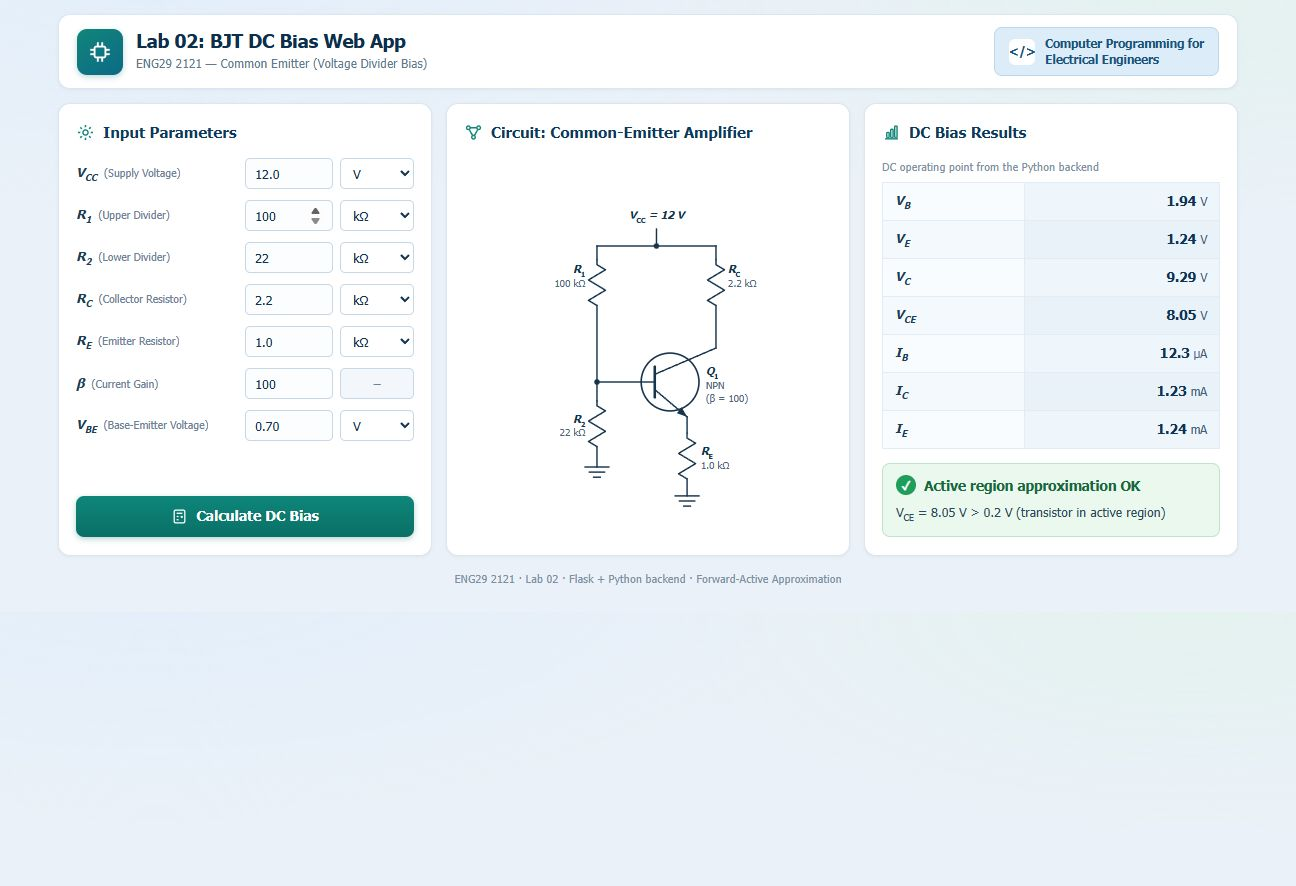
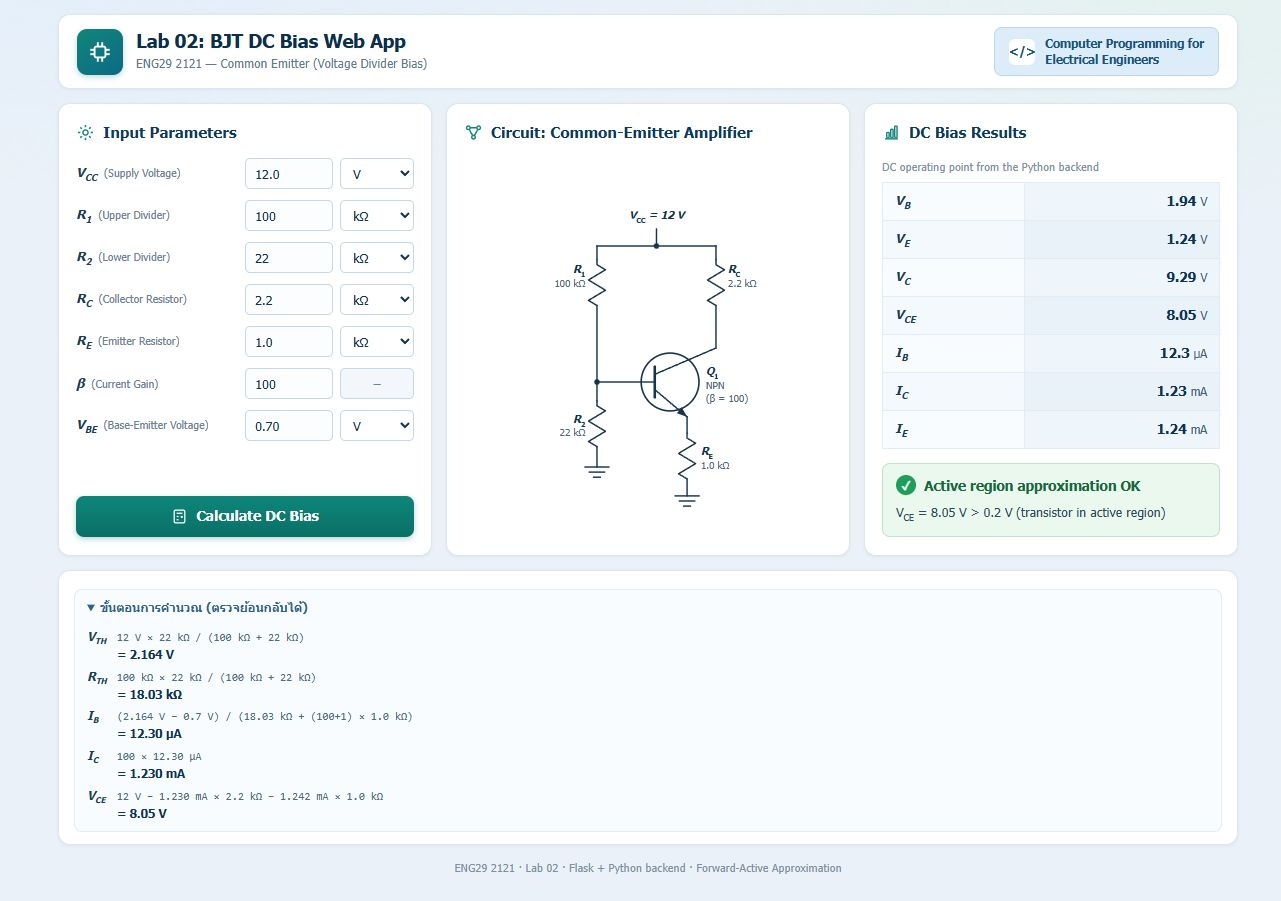
feat: show calculation steps and explain the lab-sheet sample numbers

diff --git a/static/style.css b/static/style.css
@@ -464,6 +464,75 @@ body {
   background: #c9453a;
 }
 
+/* ── calculation steps ──────────────────────────────────── */
+.page {
+  max-width: 1180px;
+  margin: 0 auto;
+}
+
+.steps-panel {
+  margin-top: 14px;
+  padding: 6px 15px 12px;
+}
+
+.steps {
+  margin-top: 12px;
+  border: 1px solid var(--line-soft);
+  border-radius: 8px;
+  background: #f9fcfe;
+}
+
+.steps summary {
+  padding: 8px 12px;
+  cursor: pointer;
+  font-size: 12px;
+  font-weight: bold;
+  color: #2b6389;
+}
+
+.steps summary:hover {
+  color: #0d7a70;
+}
+
+.steps dl {
+  margin: 0;
+  padding: 2px 12px 10px;
+  display: grid;
+  grid-template-columns: auto 1fr;
+  gap: 4px 10px;
+  align-items: baseline;
+}
+
+.steps dt {
+  font-style: italic;
+  font-weight: bold;
+  font-size: 12px;
+  color: var(--navy-soft);
+  white-space: nowrap;
+}
+
+.steps dt sub {
+  font-size: 8px;
+}
+
+.steps dd {
+  margin: 0;
+  font-size: 11.5px;
+  color: #3f5c74;
+  line-height: 1.45;
+}
+
+.steps .expr {
+  font-family: Consolas, Menlo, monospace;
+  font-size: 11px;
+  color: #4a6b85;
+}
+
+.steps strong {
+  display: block;
+  color: #0f3355;
+}
+
 .placeholder {
   margin: 18px 4px;
   font-size: 12.5px;

diff --git a/templates/index.html b/templates/index.html
@@ -26,7 +26,8 @@
     </div>
   </header>
 
-  <main class="dashboard">
+  <main class="page">
+    <div class="dashboard">
     <!-- ── 1. INPUT ───────────────────────────────────────────── -->
     <section class="panel">
       <h2 class="panel-title">
@@ -264,6 +265,24 @@
         </p>
       {% endif %}
     </section>
+    </div>
+
+    {% if result %}
+    <section class="panel steps-panel">
+      <details class="steps" open>
+        <summary>ขั้นตอนการคำนวณ (ตรวจย้อนกลับได้)</summary>
+        <dl>
+          {% for step in steps %}
+          <dt>{{ step.name | safe }}</dt>
+          <dd>
+            <span class="expr">{{ step.expr }}</span>
+            <strong>= {{ step.value }}</strong>
+          </dd>
+          {% endfor %}
+        </dl>
+      </details>
+    </section>
+    {% endif %}
   </main>
 
   <footer class="footer">

diff --git a/app.py b/app.py
@@ -127,6 +127,66 @@ def _result_rows(result: BiasResult) -> list[dict[str, str]]:
     ]
 
 
+def _steps(circuit, result: BiasResult) -> list[dict[str, str]]:
+    """Substitution trail so every displayed number can be re-checked by hand."""
+
+    r1, r2, rc, re = (
+        _fmt_ohms(circuit.r1),
+        _fmt_ohms(circuit.r2),
+        _fmt_ohms(circuit.rc),
+        _fmt_ohms(circuit.re),
+    )
+    beta = f"{circuit.beta:g}"
+
+    if result.region == REGION_CUTOFF:
+        return [
+            {
+                "name": "V<sub>TH</sub>",
+                "expr": f"{circuit.vcc:g} V × {r2} / ({r1} + {r2})",
+                "value": f"{result.vth:.3f} V",
+            },
+            {
+                "name": "เงื่อนไข",
+                "expr": "V<sub>TH</sub> ≤ V<sub>BE</sub> → ไม่มีกระแสฐาน",
+                "value": "I<sub>B</sub> = 0",
+            },
+        ]
+
+    return [
+        {
+            "name": "V<sub>TH</sub>",
+            "expr": f"{circuit.vcc:g} V × {r2} / ({r1} + {r2})",
+            "value": f"{result.vth:.3f} V",
+        },
+        {
+            "name": "R<sub>TH</sub>",
+            "expr": f"{r1} × {r2} / ({r1} + {r2})",
+            "value": f"{result.rth_kohm:.2f} kΩ",
+        },
+        {
+            "name": "I<sub>B</sub>",
+            "expr": (
+                f"({result.vth:.3f} V − {circuit.vbe:g} V) / "
+                f"({result.rth_kohm:.2f} kΩ + ({beta}+1) × {re})"
+            ),
+            "value": f"{result.ib_ua:.2f} µA",
+        },
+        {
+            "name": "I<sub>C</sub>",
+            "expr": f"{beta} × {result.ib_ua:.2f} µA",
+            "value": f"{result.ic_ma:.3f} mA",
+        },
+        {
+            "name": "V<sub>CE</sub>",
+            "expr": (
+                f"{circuit.vcc:g} V − {result.ic_ma:.3f} mA × {rc} "
+                f"− {result.ie_ma:.3f} mA × {re}"
+            ),
+            "value": f"{result.vce:.2f} V",
+        },
+    ]
+
+
 def _status_detail(result: BiasResult) -> str:
     if result.region == REGION_ACTIVE:
         return f"V<sub>CE</sub> = {result.vce:.2f} V &gt; 0.2 V (transistor in active region)"
@@ -150,6 +210,7 @@ def index():
         circuit=_circuit_labels(form),
         result=None,
         rows=[],
+        steps=[],
         error=None,
         status=None,
     )
@@ -160,7 +221,8 @@ def calculate_route():
     raw = _read_form()
     labels = _circuit_labels(raw)
     try:
-        result = calculate(parse_form(raw))
+        circuit = parse_form(raw)
+        result = calculate(circuit)
     except BiasInputError as exc:
         return render_template(
             "index.html",
@@ -168,6 +230,7 @@ def calculate_route():
             circuit=labels,
             result=None,
             rows=[],
+            steps=[],
             error=exc,
             status=None,
         )
@@ -178,6 +241,7 @@ def calculate_route():
         circuit=labels,
         result=result,
         rows=_result_rows(result),
+        steps=_steps(circuit, result),
         error=None,
         status={
             "level": REGION_LEVELS[result.region],

diff --git a/tests/test_web.py b/tests/test_web.py
@@ -35,6 +35,8 @@ class WebRouteTest(unittest.TestCase):
         self.assertIn("8.05", body)  # VCE
         self.assertIn("1.23", body)  # IC in mA
         self.assertIn("1.94", body)  # VB
+        self.assertIn("ขั้นตอนการคำนวณ", body)  # substitution trail
+        self.assertIn("2.164", body)  # VTH shown in the steps panel
 
     def test_post_invalid_resistor_returns_a_readable_error(self):
         response = self.client.post("/calculate", data={**LAB_FORM, "r1": "0"})

diff --git a/docs/validation.md b/docs/validation.md
@@ -66,6 +66,28 @@ VCE = VCC − IC·RC − IE·RE
 `IC·RC + IE·RE + VCE = 2.706 + 1.242 + 8.052 = 12.000 V = VCC` — the operating
 point is self-consistent.
 
+### Why the preview image in the lab sheet shows different numbers
+
+The lab sheet screenshot shows `VB = 2.20 V`, `VE = 1.50 V`, `VC = 8.70 V`,
+`VCE = 7.20 V`, `IB = 15.1 µA`, `IC = 1.50 mA`. Those values are **impossible**
+for the reference circuit, so they cannot be used as an answer key:
+
+- With `R1 = 100 kΩ`, `R2 = 22 kΩ`, `VCC = 12 V` the base divider sets
+  `VTH = 12 × 22 / 122 = 2.164 V` *before any base current is drawn*. Adding the
+  base load only pulls `VB` **down**, and the model result is `VB = 1.942 V`.
+  `VB = 2.20 V` would require a larger `R2/R1` ratio (or a higher `VCC`).
+- `VE = 1.50 V` implies `IE = 1.50 mA`, and `IC = 1.50 mA` with `β = 100` implies
+  `IB = 15 µA`. Those three currents form a *different* operating point.
+- The lab sheet states this explicitly in section 01B: *"ค่าตัวเลขบนหน้าจอเป็น
+  ค่าประกอบภาพ ไม่ใช่คำตอบอ้างอิง"* (the on-screen numbers are illustrative,
+  not a reference answer).
+
+Rubric item **A3** requires the program output to agree with the student's own
+hand calculation, so this project deliberately reproduces the physics
+(`1.94 / 1.24 / 9.29 / 8.05 / 12.3 µA / 1.23 mA`) instead of copying the mock
+values. The in-page "ขั้นตอนการคำนวณ" panel prints the full substitution trail so
+every displayed number can be re-checked with a calculator.
+
 ## 2. Unit handling
 
 The same circuit entered in ohms

diff --git a/README.md b/README.md
@@ -89,6 +89,14 @@ VCE = VC − VE
 Assumptions: constant β, constant `VBE`, forward-active operation, no Early
 effect, no leakage, no temperature drift. This is **not** a SPICE simulation.
 
+> The sample numbers printed in the lab-sheet screenshot (`VB = 2.20 V`,
+> `VE = 1.50 V`, `VCE = 7.20 V`, `IB = 15.1 µA`) are marked there as
+> "ค่าประกอบภาพ" — illustrative only. They cannot be produced by
+> `VCC = 12 V, R1 = 100 kΩ, R2 = 22 kΩ` (the unloaded divider already caps
+> `VB` at 2.164 V). The app therefore reports the physically correct
+> `VB = 1.94 V, VE = 1.24 V, VCE = 8.05 V, IB = 12.3 µA`; see
+> `docs/validation.md` for the full derivation.
+
 ### Reported regions
 
 | Region | Condition | Behaviour |
